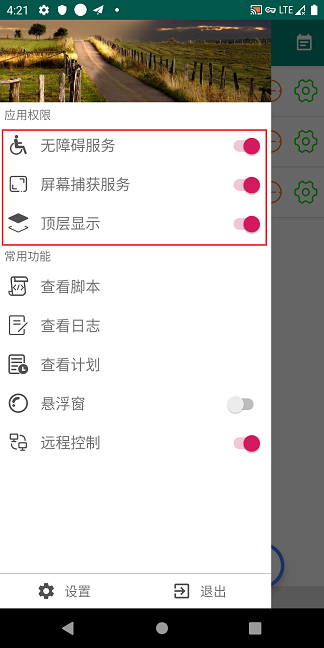
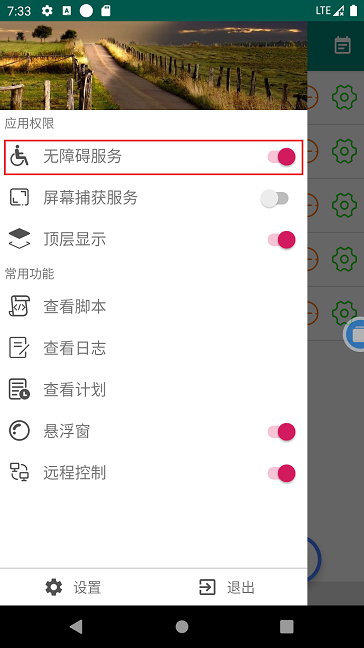
更新 README.md

Changed region(s): [[0.0, 0.0, 1.0, 0.9877], [0.8951, 0.3704, 0.9877, 0.4321]]

diff --git a/README.md b/README.md
@@ -10,5 +10,5 @@
 
 ## 注意
 
-- 为确保脚本能正常运行，启动脚本前需手动为asf软件开启无障碍辅助功能和屏幕录像功能，如下图：<br>
+- 脚本需要无障碍辅助权限才能正常运行，该权限需在首次运行asf时手动开启，如下图：<br>
 ![image](https://github.com/yusjck/asf-script-example/blob/main/images/step1.png)
